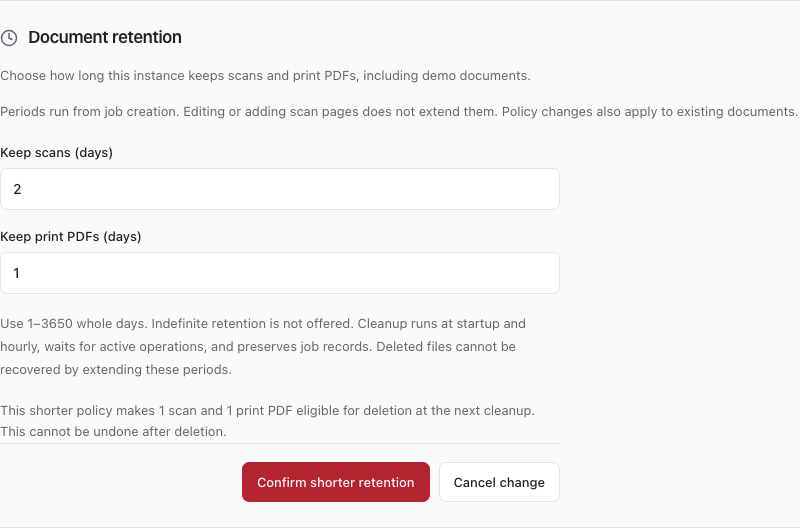
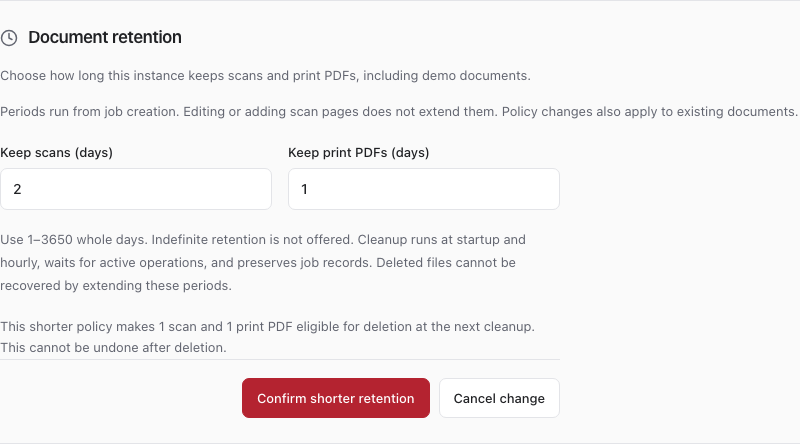
style: align retention number inputs side by side

diff --git a/apps/client/src/RetentionSettings.tsx b/apps/client/src/RetentionSettings.tsx
@@ -61,25 +61,27 @@ export function RetentionSettings() {
       <form onSubmit={submit} className={`${s.form} ${s.userForm}`}>
         {policy ? (
           <>
-            {(['scanDays', 'printDays'] as const).map((key) => (
-              <label key={key}>
-                {key === 'scanDays' ? 'Keep scans (days)' : 'Keep print PDFs (days)'}
-                <input
-                  type="number"
-                  min={1}
-                  max={3650}
-                  step={1}
-                  required
-                  disabled={busy}
-                  value={Number.isNaN(policy[key]) ? '' : policy[key]}
-                  onChange={(e) => {
-                    setPolicy({ ...policy, [key]: e.target.valueAsNumber });
-                    setImpact(undefined);
-                    setSaved(false);
-                  }}
-                />
-              </label>
-            ))}
+            <div className={s.formGrid}>
+              {(['scanDays', 'printDays'] as const).map((key) => (
+                <label key={key}>
+                  {key === 'scanDays' ? 'Keep scans (days)' : 'Keep print PDFs (days)'}
+                  <input
+                    type="number"
+                    min={1}
+                    max={3650}
+                    step={1}
+                    required
+                    disabled={busy}
+                    value={Number.isNaN(policy[key]) ? '' : policy[key]}
+                    onChange={(e) => {
+                      setPolicy({ ...policy, [key]: e.target.valueAsNumber });
+                      setImpact(undefined);
+                      setSaved(false);
+                    }}
+                  />
+                </label>
+              ))}
+            </div>
             <p className={s.small}>
               Use 1–3650 whole days. Indefinite retention is not offered. Cleanup runs at startup
               and hourly, waits for active operations, and preserves job records. Deleted files
